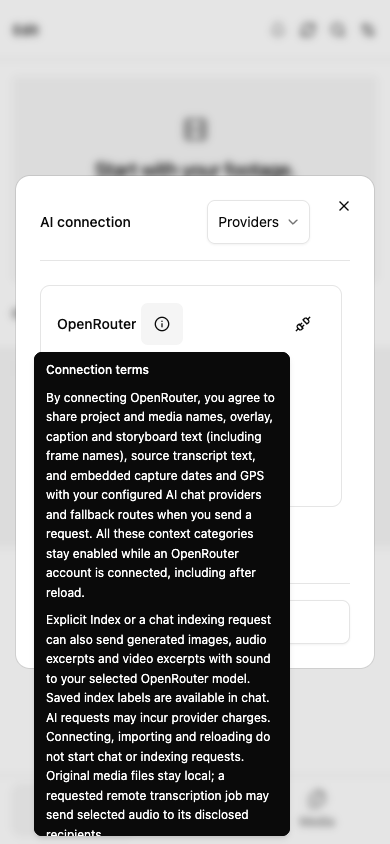
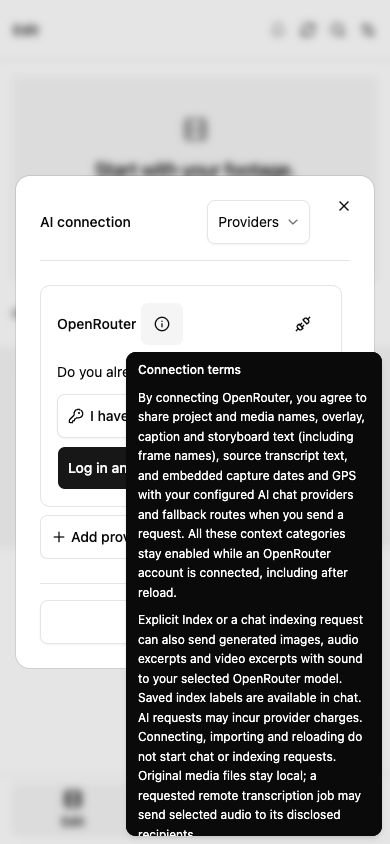
Make inline connection terms keyboard accessible

diff --git a/tests/browser/workspace-openrouter-connector.spec.ts b/tests/browser/workspace-openrouter-connector.spec.ts
@@ -89,7 +89,10 @@ for (const base of ['/', '/LocalCut/']) {
       await expect(
         dialog.getByRole('button', { name: 'Data & analytics' }),
       ).toHaveCount(0);
-      const tooltip = page.getByRole('tooltip');
+      const tooltip = page.getByRole('dialog', {
+        name: 'OpenRouter connection terms',
+        exact: true,
+      });
       const tooltipBounds = (await tooltip.boundingBox())!;
       expect(tooltipBounds.y).toBeGreaterThanOrEqual(0);
       expect(tooltipBounds.y + tooltipBounds.height).toBeLessThanOrEqual(844);
@@ -825,7 +828,10 @@ test.describe('AI settings touch disclosure', () => {
         exact: true,
       });
       await trigger.tap();
-      const tooltip = page.getByRole('tooltip');
+      const tooltip = page.getByRole('dialog', {
+        name: 'OpenRouter connection terms',
+        exact: true,
+      });
       await expect(tooltip).toBeVisible();
       const bounds = (await tooltip.boundingBox())!;
       expect(bounds.y).toBeGreaterThanOrEqual(0);
@@ -844,3 +850,56 @@ test.describe('AI settings touch disclosure', () => {
     });
   }
 });
+
+for (const base of ['/', '/LocalCut/']) {
+  test(`OpenRouter terms policy links are reachable by keyboard ${base}`, async ({
+    page,
+    context,
+  }) => {
+    await context.route('https://openrouter.ai/**', (route) =>
+      route.fulfill({
+        contentType: 'text/html',
+        body: 'Synthetic policy page',
+      }),
+    );
+    await page.setViewportSize({ width: 430, height: 873 });
+    await page.goto(base);
+    await openAISettings(page);
+    await prepareOpenRouterKey(page);
+    const trigger = page.getByRole('button', {
+      name: 'OpenRouter connection terms',
+      exact: true,
+    });
+    await trigger.focus();
+    await trigger.press('Enter');
+    const disclosure = page.getByRole('dialog', {
+      name: 'OpenRouter connection terms',
+      exact: true,
+    });
+    await expect(disclosure).toBeFocused();
+    await page.keyboard.press('Tab');
+    const terms = disclosure.getByRole('link', {
+      name: 'OpenRouter Terms of Service',
+      exact: true,
+    });
+    await expect(terms).toBeFocused();
+    await expect(terms).toBeInViewport();
+    const opened = context.waitForEvent('page');
+    await terms.press('Enter');
+    const policy = await opened;
+    await expect(policy).toHaveURL('https://openrouter.ai/terms');
+    await policy.close();
+    await page.bringToFront();
+    await expect(terms).toBeFocused();
+    await page.keyboard.press('Tab');
+    await expect(
+      disclosure.getByRole('link', { name: 'Privacy Policy', exact: true }),
+    ).toBeFocused();
+    await page.keyboard.press('Escape');
+    await expect(disclosure).toBeHidden();
+    await expect(trigger).toBeFocused();
+    await expect(
+      page.getByRole('dialog', { name: 'AI connection', exact: true }),
+    ).toBeVisible();
+  });
+}

diff --git a/src/workspace/AIConnectionDialog.tsx b/src/workspace/AIConnectionDialog.tsx
@@ -14,7 +14,11 @@ import {
 } from '../components/ui/dialog';
 import { Input } from '../components/ui/input';
 import { Label } from '../components/ui/label';
-import { Tooltip } from '../components/ui/tooltip';
+import {
+  Popover,
+  PopoverTrigger,
+  PopoverContent,
+} from '../components/ui/popover';
 import SelectField from './SelectField';
 import { ProviderSettings } from './ProviderSettings';
 import type { ProviderSettingsProps } from './ProviderSettings';
@@ -243,6 +247,7 @@ function OpenRouterConnection({
 }) {
   const [apiKey, setApiKey] = useState('');
   const [method, setMethod] = useState<'choice' | 'key'>('choice');
+  const termsContent = useRef<HTMLDivElement | null>(null);
   return (
     <div
       role="group"
@@ -252,9 +257,31 @@ function OpenRouterConnection({
       <div className="flex flex-wrap items-center justify-between gap-3">
         <div className="flex min-w-0 items-center gap-1">
           <p className="min-w-0 truncate text-sm font-medium">{profile.name}</p>
-          <Tooltip
-            toggleOnClick
-            content={
+          <Popover>
+            <PopoverTrigger
+              openOnHover
+              delay={200}
+              render={
+                <Button
+                  type="button"
+                  variant="ghost"
+                  size="icon-sm"
+                  aria-label={`${profile.name} connection terms`}
+                />
+              }
+            >
+              <Info aria-hidden="true" />
+            </PopoverTrigger>
+            <PopoverContent
+              ref={termsContent}
+              aria-label={`${profile.name} connection terms`}
+              initialFocus={(type) =>
+                type === 'keyboard' || type === 'touch'
+                  ? termsContent.current
+                  : false
+              }
+              className="max-h-[min(32rem,var(--available-height))] w-64 border-0 bg-foreground px-3 py-2 text-xs text-background shadow-md"
+            >
               <section
                 aria-label="OpenRouter connection terms"
                 className="space-y-2 text-xs leading-relaxed select-text"
@@ -304,17 +331,8 @@ function OpenRouterConnection({
                   , along with your selected model providers’ policies.
                 </p>
               </section>
-            }
-          >
-            <Button
-              type="button"
-              variant="ghost"
-              size="icon-sm"
-              aria-label={`${profile.name} connection terms`}
-            >
-              <Info aria-hidden="true" />
-            </Button>
-          </Tooltip>
+            </PopoverContent>
+          </Popover>
         </div>
         <div className="flex items-center gap-2">
           {management}

diff --git a/src/components/ui/tooltip.tsx b/src/components/ui/tooltip.tsx
@@ -33,7 +33,7 @@ export function Tooltip({
             id={id}
             role="tooltip"
             data-slot="tooltip-content"
-            className="max-h-[min(32rem,var(--available-height))] max-w-64 overflow-y-auto rounded-md bg-foreground px-3 py-2 text-xs leading-relaxed text-background shadow-md"
+            className="max-w-64 rounded-md bg-foreground px-3 py-2 text-xs leading-relaxed text-background shadow-md"
           >
             {content}
           </TooltipPrimitive.Popup>

diff --git a/docs/workspace.md b/docs/workspace.md
@@ -185,13 +185,13 @@ Autosave appends a version one second after the last committed edit. Rapid edits
 
 Dialogs fit their content up to a shared 48rem/viewport height cap, including mobile safe areas and the selected interface scale. Short forms, confirmations, empty queues and import/export progress stay compact. Rich text, speech, recording and backup editors use wider desktop layouts; Projects retains a stable 40rem/viewport browsing height. Overflow scrolls within the dialog or its existing content region. See the [compact rename dialog](images/dialog-sizing-rename.png) and [speech editor](images/workspace-voice-presets.png).
 
-AI settings remains a spacious, scrollable dialog: a wider desktop layout and more spacing give provider configuration room, while narrow screens retain a viewport-bounded dialog. The title, close control and footer stay visible while configuration scrolls. Tabs use shared shadcn Base UI controls with keyboard navigation and retained form values; narrow screens arrange the four sections selected from its header dropdown in two rows. Nested Accordion and Collapsible disclosures preserve their reduced-motion behavior.
+AI settings remains a spacious, scrollable dialog: a wider desktop layout and more spacing give provider configuration room, while narrow screens retain a viewport-bounded dialog. The title, close control and footer stay visible while configuration scrolls. A shared shadcn Base UI single-select dropdown sits inline with the title and displays the active section on desktop and narrow screens. Section switches preserve form values. Nested Accordion and Collapsible disclosures preserve their reduced-motion behavior.
 
 Connect AI accepts a user-owned OpenRouter key or starts its PKCE login. The Providers section adds named OpenRouter accounts, OpenAI-compatible endpoints or ChatGPT accounts. Multiple accounts of the same provider keep separate credentials and routes. Connected accounts offer Verify and Disconnect without key metadata, reconnect or replacement controls. Confirmed Disconnect clears credentials and keeps configuration; Disconnect on a disconnected account confirms forgetting it and deleting its routes. ChatGPT Connect activates its saved account after reload, and callback instructions are available through its help tooltip.
 
 LLM, TTS and STT use searchable provider dropdowns containing connected, service-capable accounts. Empty lists explain that a provider needs connecting; Local Whisper remains independently available for STT. Saved disconnected routes retain their identity without becoming selectable search results. The four sections selected from its header dropdown are Providers, LLM - Chat, TTS - Speech and STT - Transcription. LLM - Chat labels the primary provider and ordered backups and offers Add backup provider. Section switches retain connection drafts. See the [desktop provider/services view](images/ai-provider-services-desktop.png) and [multiple accounts on mobile](images/ai-provider-accounts-mobile.png). Choose chat models in LLM - Chat: OpenRouter/ChatGPT use a searchable catalog with refresh in its search row; compatible endpoints use an explicit tool-capable model ID there. Add/remove/reorder service routes, and configure each fallback's model/voice. STT defaults to Local Whisper; remote transcription action details disclose the configured possible audio recipients. Opening configuration, Verify and model refresh never start inference. See [provider/authentication contracts](ai.md).
 
-OpenRouter keys persist in separate origin-local account records and restore after reload; compatible-endpoint keys remain session-only. OpenRouter cards offer [connection terms](ai.md#openrouter-connection-terms) through the information tooltip beside the account name before key use or login and while connected. See the [phone terms disclosure](images/ai-connection-terms-mobile.png). They disclose always-enabled names, text, transcripts and capture dates/GPS, configured recipients/fallbacks, indexing excerpts, possible charges and the local credential/media boundaries. There is no Data & analytics popover.
+OpenRouter keys persist in separate origin-local account records and restore after reload; compatible-endpoint keys remain session-only. OpenRouter cards offer [connection terms](ai.md#openrouter-connection-terms) through the information popup beside the account name before key use or login and while connected. See the [phone terms disclosure](images/ai-connection-terms-mobile.png). They disclose always-enabled names, text, transcripts and capture dates/GPS, configured recipients/fallbacks, indexing excerpts, possible charges and the local credential/media boundaries. There is no Data & analytics popover.
 
 Chat requires a selected tool-capable model and an open current project. After connecting, the Empty state offers Choose AI model or New project / Open project for the missing step. Choose AI model opens LLM - Chat directly; AI settings and connection recovery open Providers. Reload restores the saved OpenRouter connection and validated model. A valid project URL reopens that local project; the bare app URL reopens the remembered recent project, or keeps editing closed when none is saved.
 
@@ -365,4 +365,4 @@ Uploaded files and folders stay in the project Media library without adding time
 
 Visible dialog headers have a horizontal divider below them; action footers have one above them. Dialogs remain sized to their contents and bounded by the viewport. Browsing/loading/read-only dialogs with no action footer do not add an empty footer.
 
-AI connection selects Providers, LLM - Chat, TTS - Speech or STT - Transcription from the dropdown inline with its heading. The trigger shows the active section; switching retains connection drafts. OpenRouter’s information icon beside the account name reveals the full terms on hover, keyboard focus or touch. Disconnect asks for confirmation, and Cancel or Escape preserves the connection.
+AI connection selects Providers, LLM - Chat, TTS - Speech or STT - Transcription from the dropdown inline with its heading. The trigger shows the active section; switching retains connection drafts. OpenRouter’s information icon beside the account name reveals the full terms on hover, keyboard activation or touch. The scrolling popover lets keyboard users reach the policy links. Disconnect asks for confirmation, and Cancel or Escape preserves the connection.

diff --git a/docs/ai.md b/docs/ai.md
@@ -382,7 +382,7 @@ On reload, the workspace restores a valid saved key and refreshes only the publi
 
 ## OpenRouter connection terms
 
-The OpenRouter account card shows Connection terms before both key use and OAuth authorization and retains them while connected. Connecting accepts sharing project/media names, overlay/caption/storyboard text including frame names, source transcript text and embedded capture dates/GPS with configured AI chat providers and fallback routes on explicit requests. All four categories stay enabled while any OpenRouter account is connected, including restored accounts after reload. No separate sharing controls or persisted consent flag exist; importing provider profiles alone grants nothing. The last account's disconnect removes this authorization and retires affected sessions.
+The OpenRouter account card exposes Connection terms from its inline information trigger before both key use and OAuth authorization and retains that disclosure while connected. Connecting accepts sharing project/media names, overlay/caption/storyboard text including frame names, source transcript text and embedded capture dates/GPS with configured AI chat providers and fallback routes on explicit requests. All four categories stay enabled while any OpenRouter account is connected, including restored accounts after reload. No separate sharing controls or persisted consent flag exist; importing provider profiles alone grants nothing. The last account's disconnect removes this authorization and retires affected sessions.
 
 The disclosure also covers generated still/audio/video indexing excerpts, saved index labels, possible charges, local credential storage/removal, the original-media boundary and separately requested remote transcription. It links the [OpenRouter Terms of Service](https://openrouter.ai/terms) and [Privacy Policy](https://openrouter.ai/privacy); selected upstream providers govern their processing. Connection, import and reload do not submit chat or indexing. Existing explicitly submitted durable tasks retain their own contracts.
 
@@ -458,6 +458,6 @@ File/folder uploads are user-owned Media imports and do not edit the timeline. T
 
 ### AI settings disclosure and dialog structure
 
-The AI connection header owns a single-select section dropdown for Providers, LLM - Chat, TTS - Speech and STT - Transcription. Switching preserves drafts in mounted, hidden sections. OpenRouter’s full connection terms are available through a keyboard/touch information tooltip beside each account name. Disconnect opens a confirmation; Cancel preserves the account, credentials and routes. Confirmed Disconnect uses the existing account owner, retaining configured routes for connected accounts; forgetting a disconnected account removes its profile/routes.
+The AI connection header owns a single-select section dropdown for Providers, LLM - Chat, TTS - Speech and STT - Transcription. Switching preserves drafts in mounted, hidden sections. OpenRouter’s full connection terms are available through an information popup beside each account name. It uses the shared interactive popover with the tooltip appearance, hover/keyboard/touch opening and focusable policy links. Disconnect opens a confirmation; Cancel preserves the account, credentials and routes. Confirmed Disconnect uses the existing account owner, retaining configured routes for connected accounts; forgetting a disconnected account removes its profile/routes.
 
 Visible LocalCut dialog headers and action footers use shared horizontal dividers. Custom media and speech form actions use the shared footer. The embedded project browser separates its visible header; the command palette separates its search header. Dialogs with no footer retain only the header divider. Third-party Excalidraw popups own their own layout.
